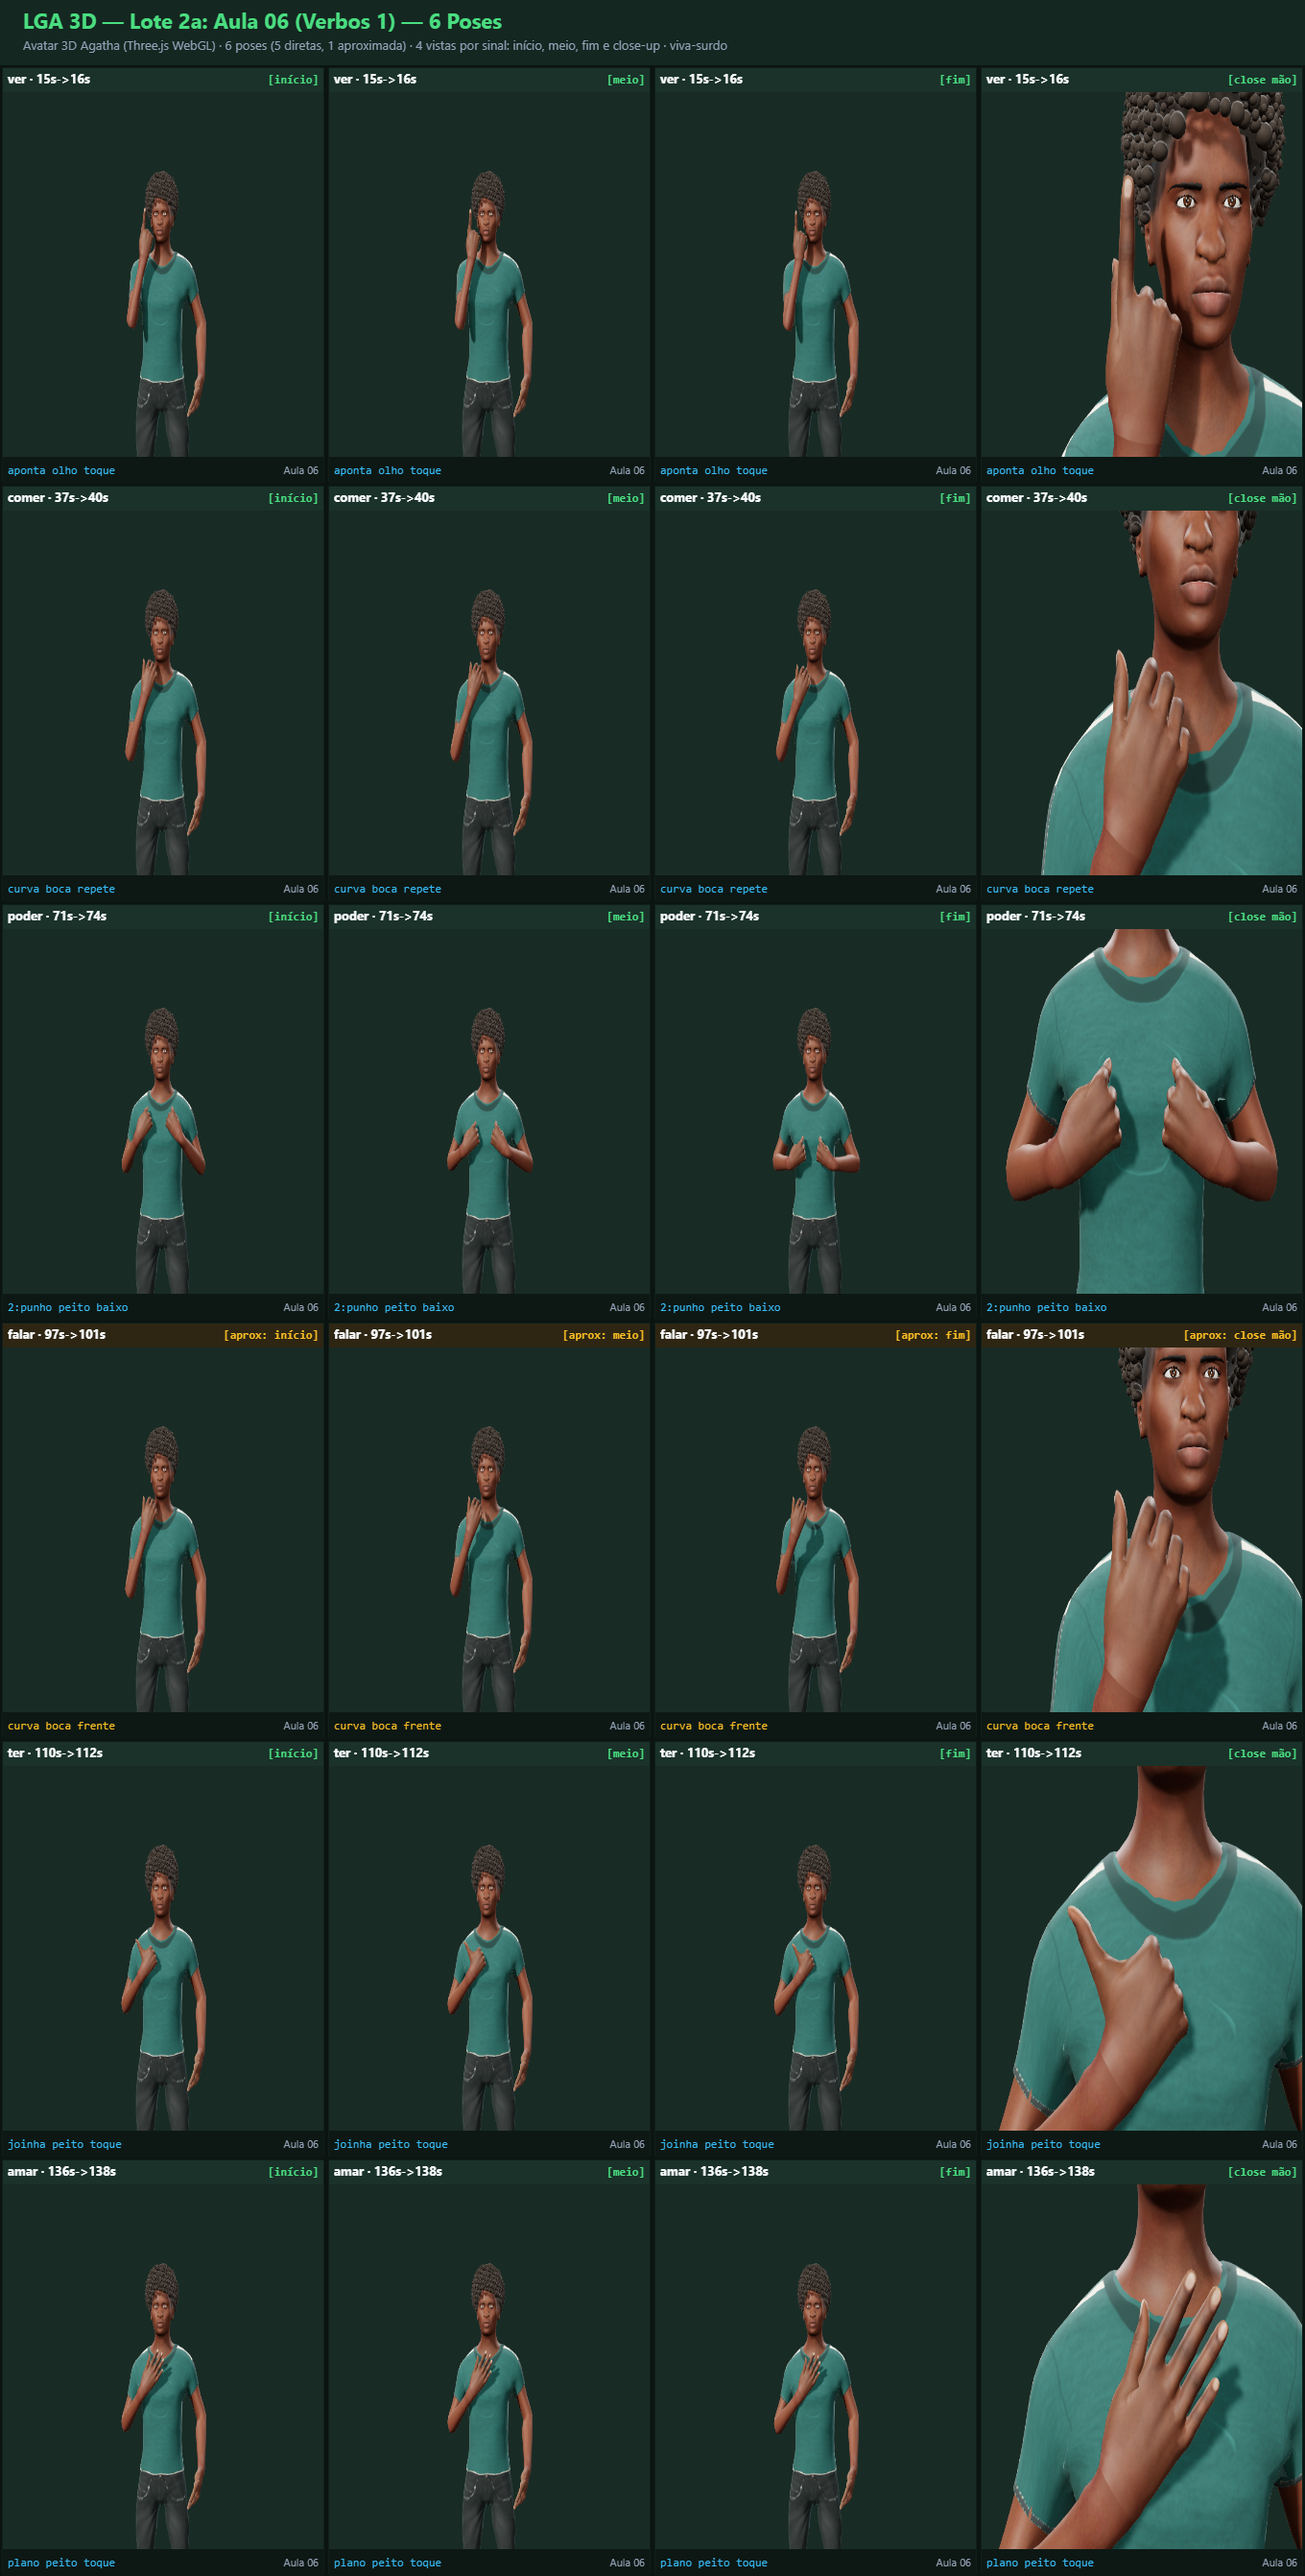
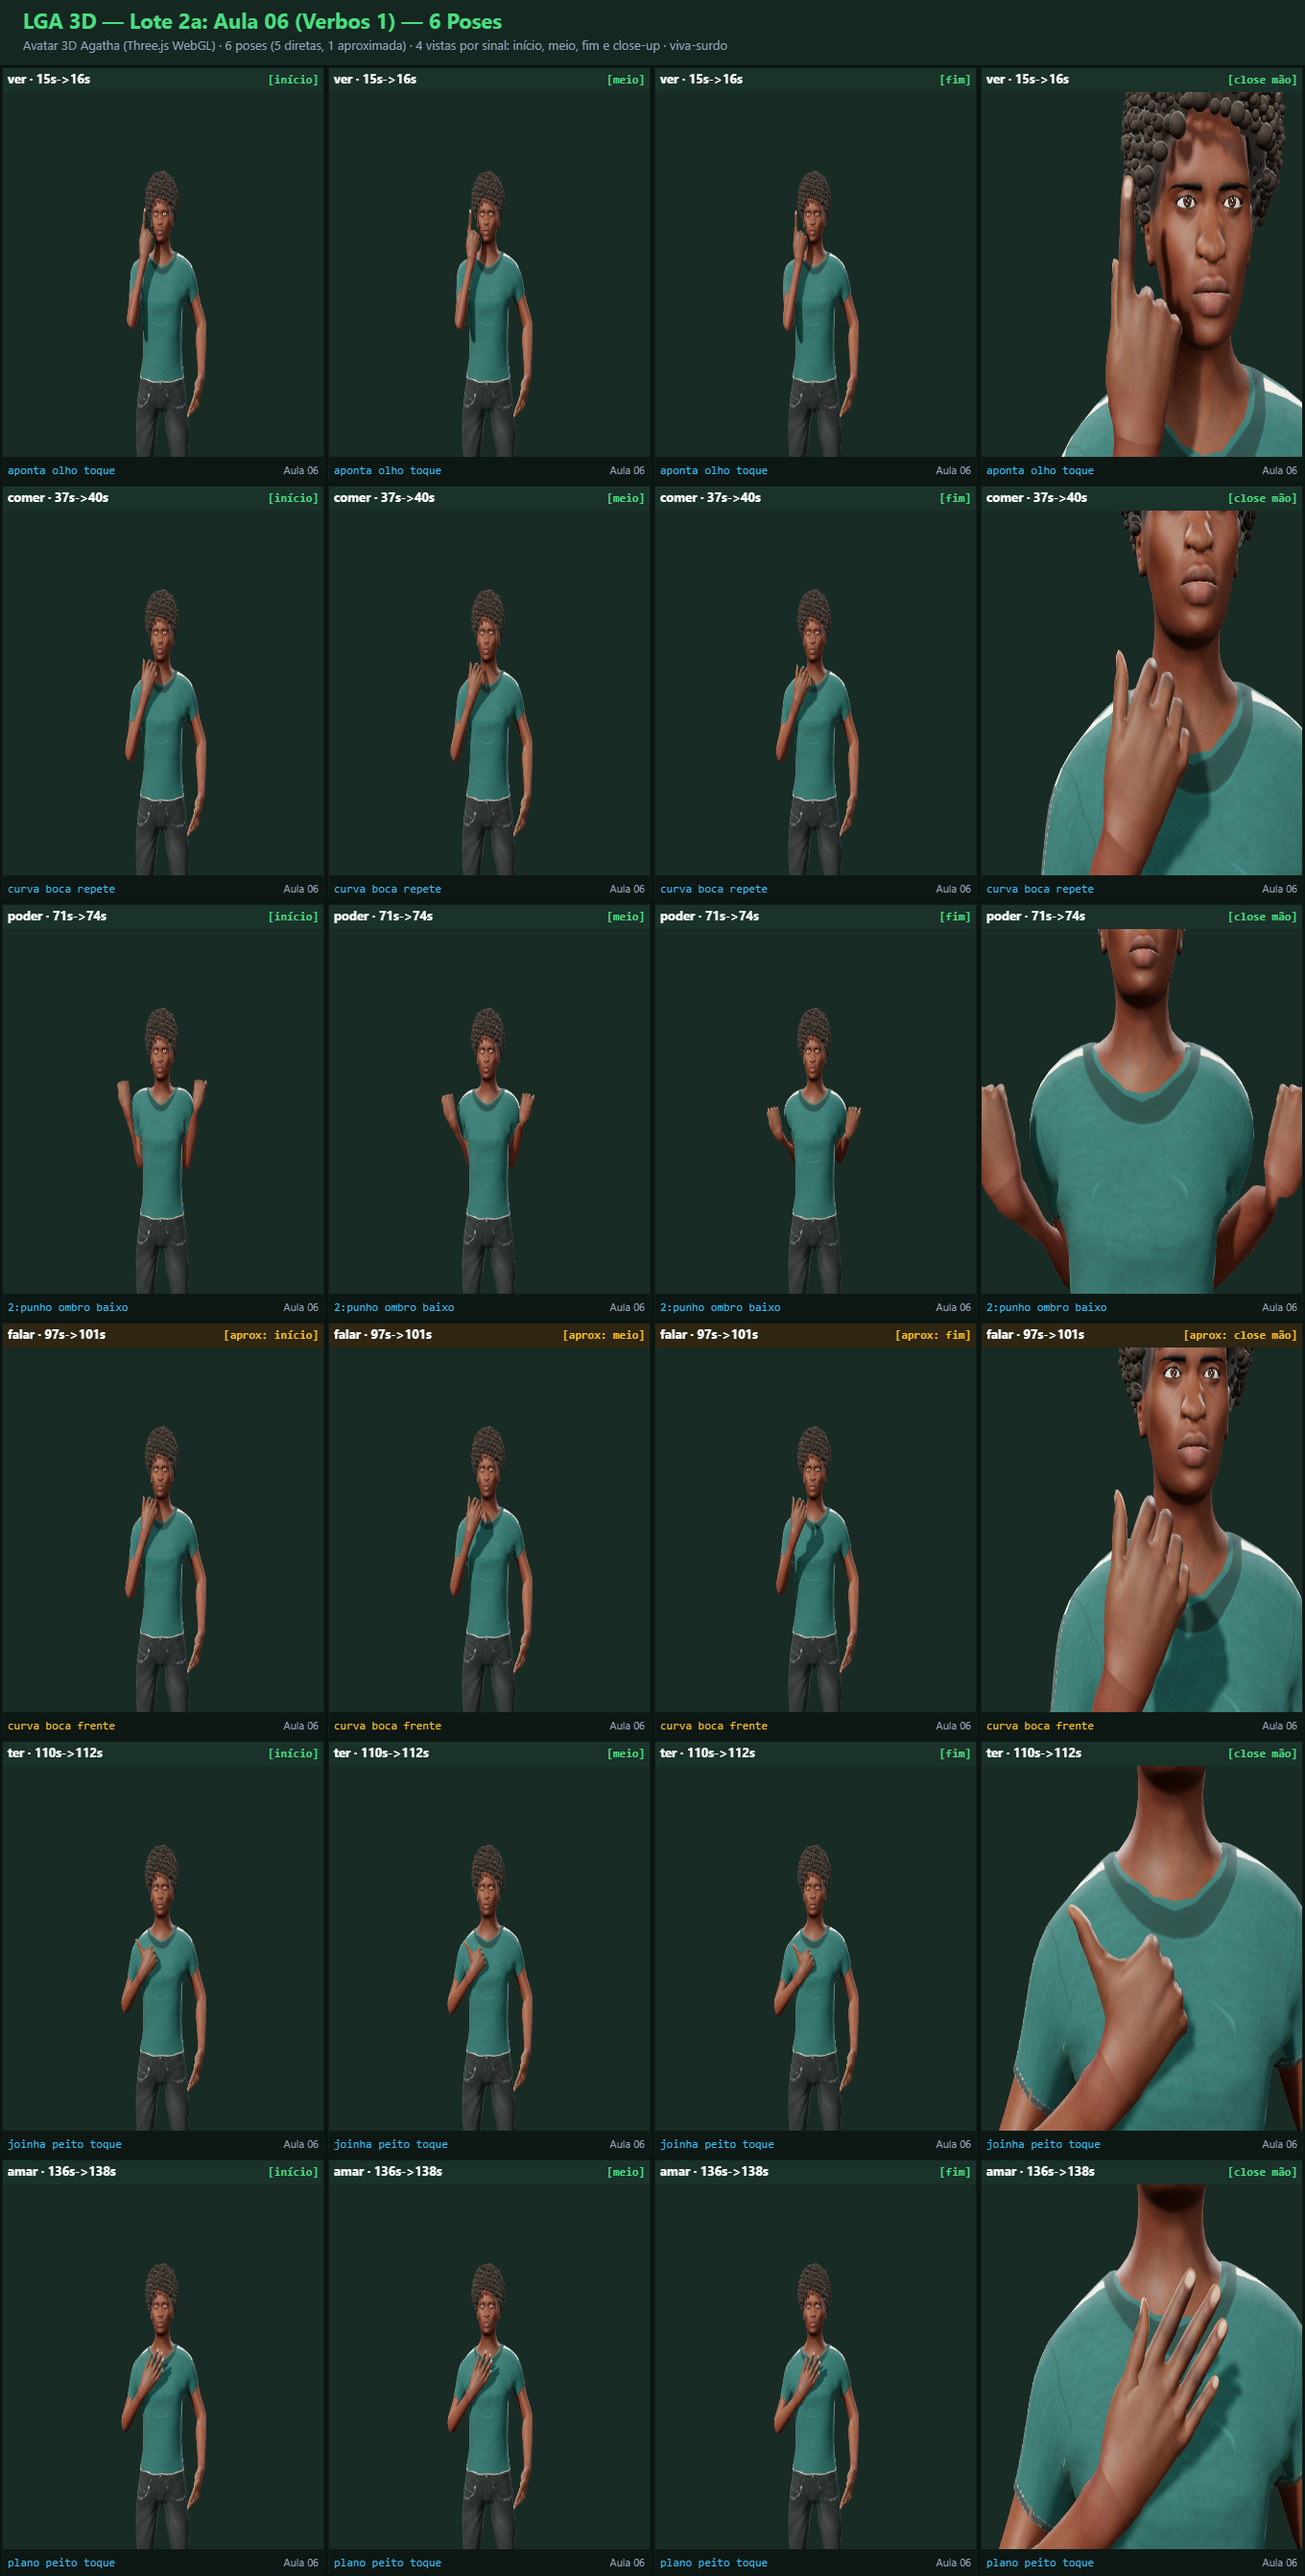
lga-3d(lotes-1b-2a): ajuste de poder para ombro baixo e medicao/disclaimer de oito

diff --git a/app/lga-3d.js b/app/lga-3d.js
@@ -98,6 +98,7 @@
       segundos: [59, 74],
       confianca: 'média',
       veSe: "polegar e indicador unidos em círculo/pinça (configuração em 'F'), com os outros três dedos estendidos para cima",
+      aproximado: true,
     },
     'ver': {
       notacao: 'aponta olho toque',
@@ -114,7 +115,7 @@
       veSe: 'mão direita com dedos juntos em cúspide/pinça fecha repetidamente junto à boca',
     },
     'poder': {
-      notacao: '2:punho peito baixo',
+      notacao: '2:punho ombro baixo',
       aula: 'Aula 06 — Verbos de LGA 1',
       segundos: [71, 74],
       confianca: 'alta',
